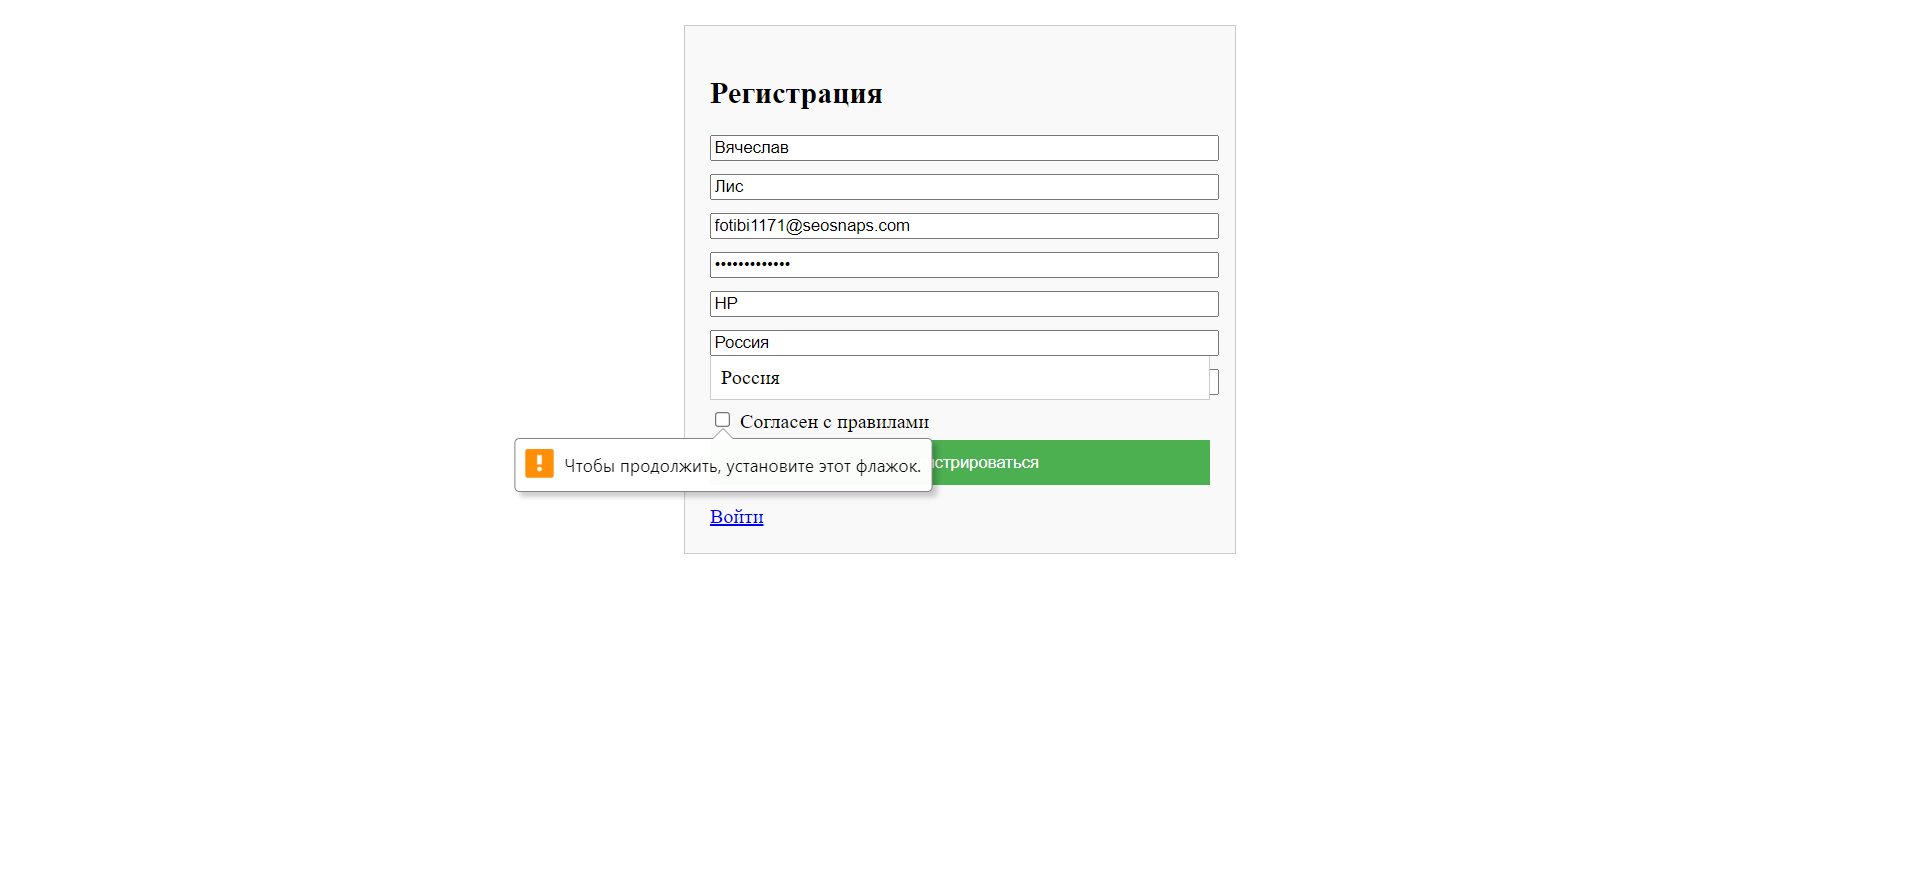
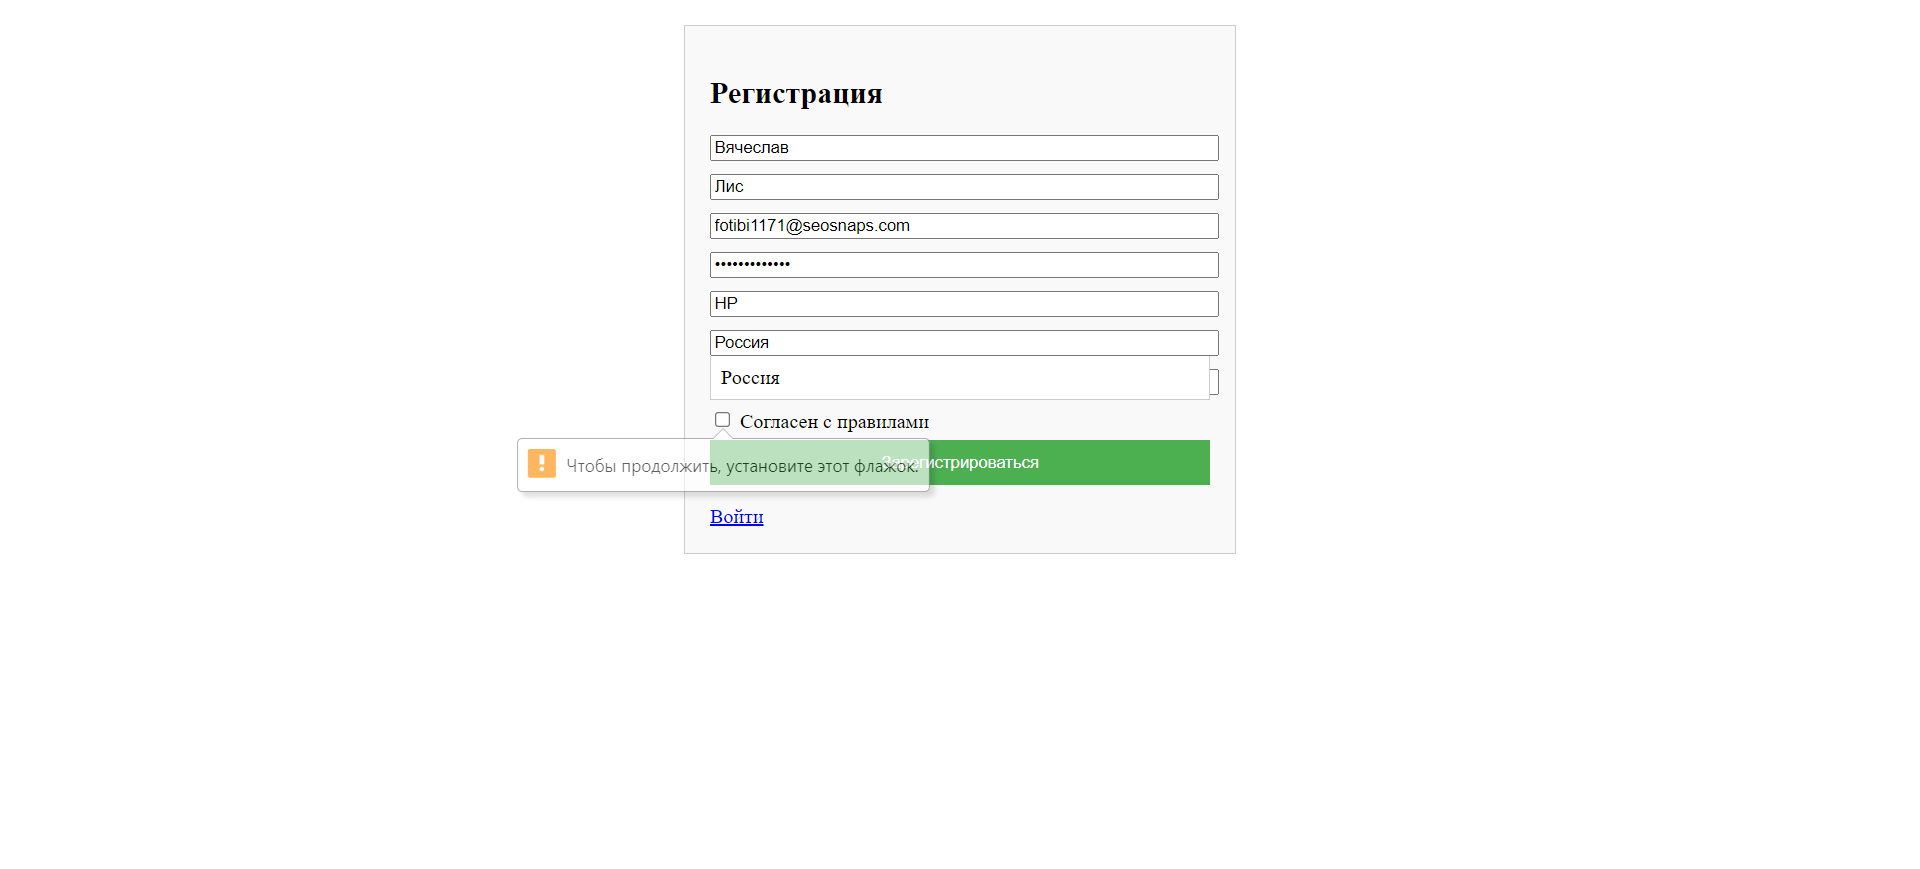
Parameterization_Phone add

Changed region(s): [[0.25, 0.4971, 0.5, 0.5593]]

diff --git a/DZ/Show_dz.py b/DZ/Show_dz.py
@@ -6,6 +6,7 @@ from selenium import webdriver
 from selenium.webdriver.common.by import By
 
 
+
 @pytest.fixture
 def driver():
     driver = webdriver.Chrome()
@@ -106,3 +107,17 @@ def test_authorization_falled_mail(driver):
     button = driver.find_element(By.XPATH, "/html/body/div/form/button")
     button.click()
     driver.save_screenshot("Screen/test_authorization_falled_mail.png")
+
+#========================== parameterization ================================================
+
+@pytest.mark.parametrize("input_value, expected", [("89297970707", ["89297970707","Нормальный"]), ("sdfghjkrgh", ["89297970707","буквы"]), ("1", ["89297970707","одна цифра!"])])
+def test_parameterization_phone(driver, input_value, expected):
+    input_elem = driver.find_element(By.XPATH, "/html/body/div/form/input[6]")
+    input_elem.send_keys(input_value)
+    driver.save_screenshot("Screen/test_parameterization_phone.png") # как делать все скрины при param?
+    print(expected)
+
+
+
+
+
